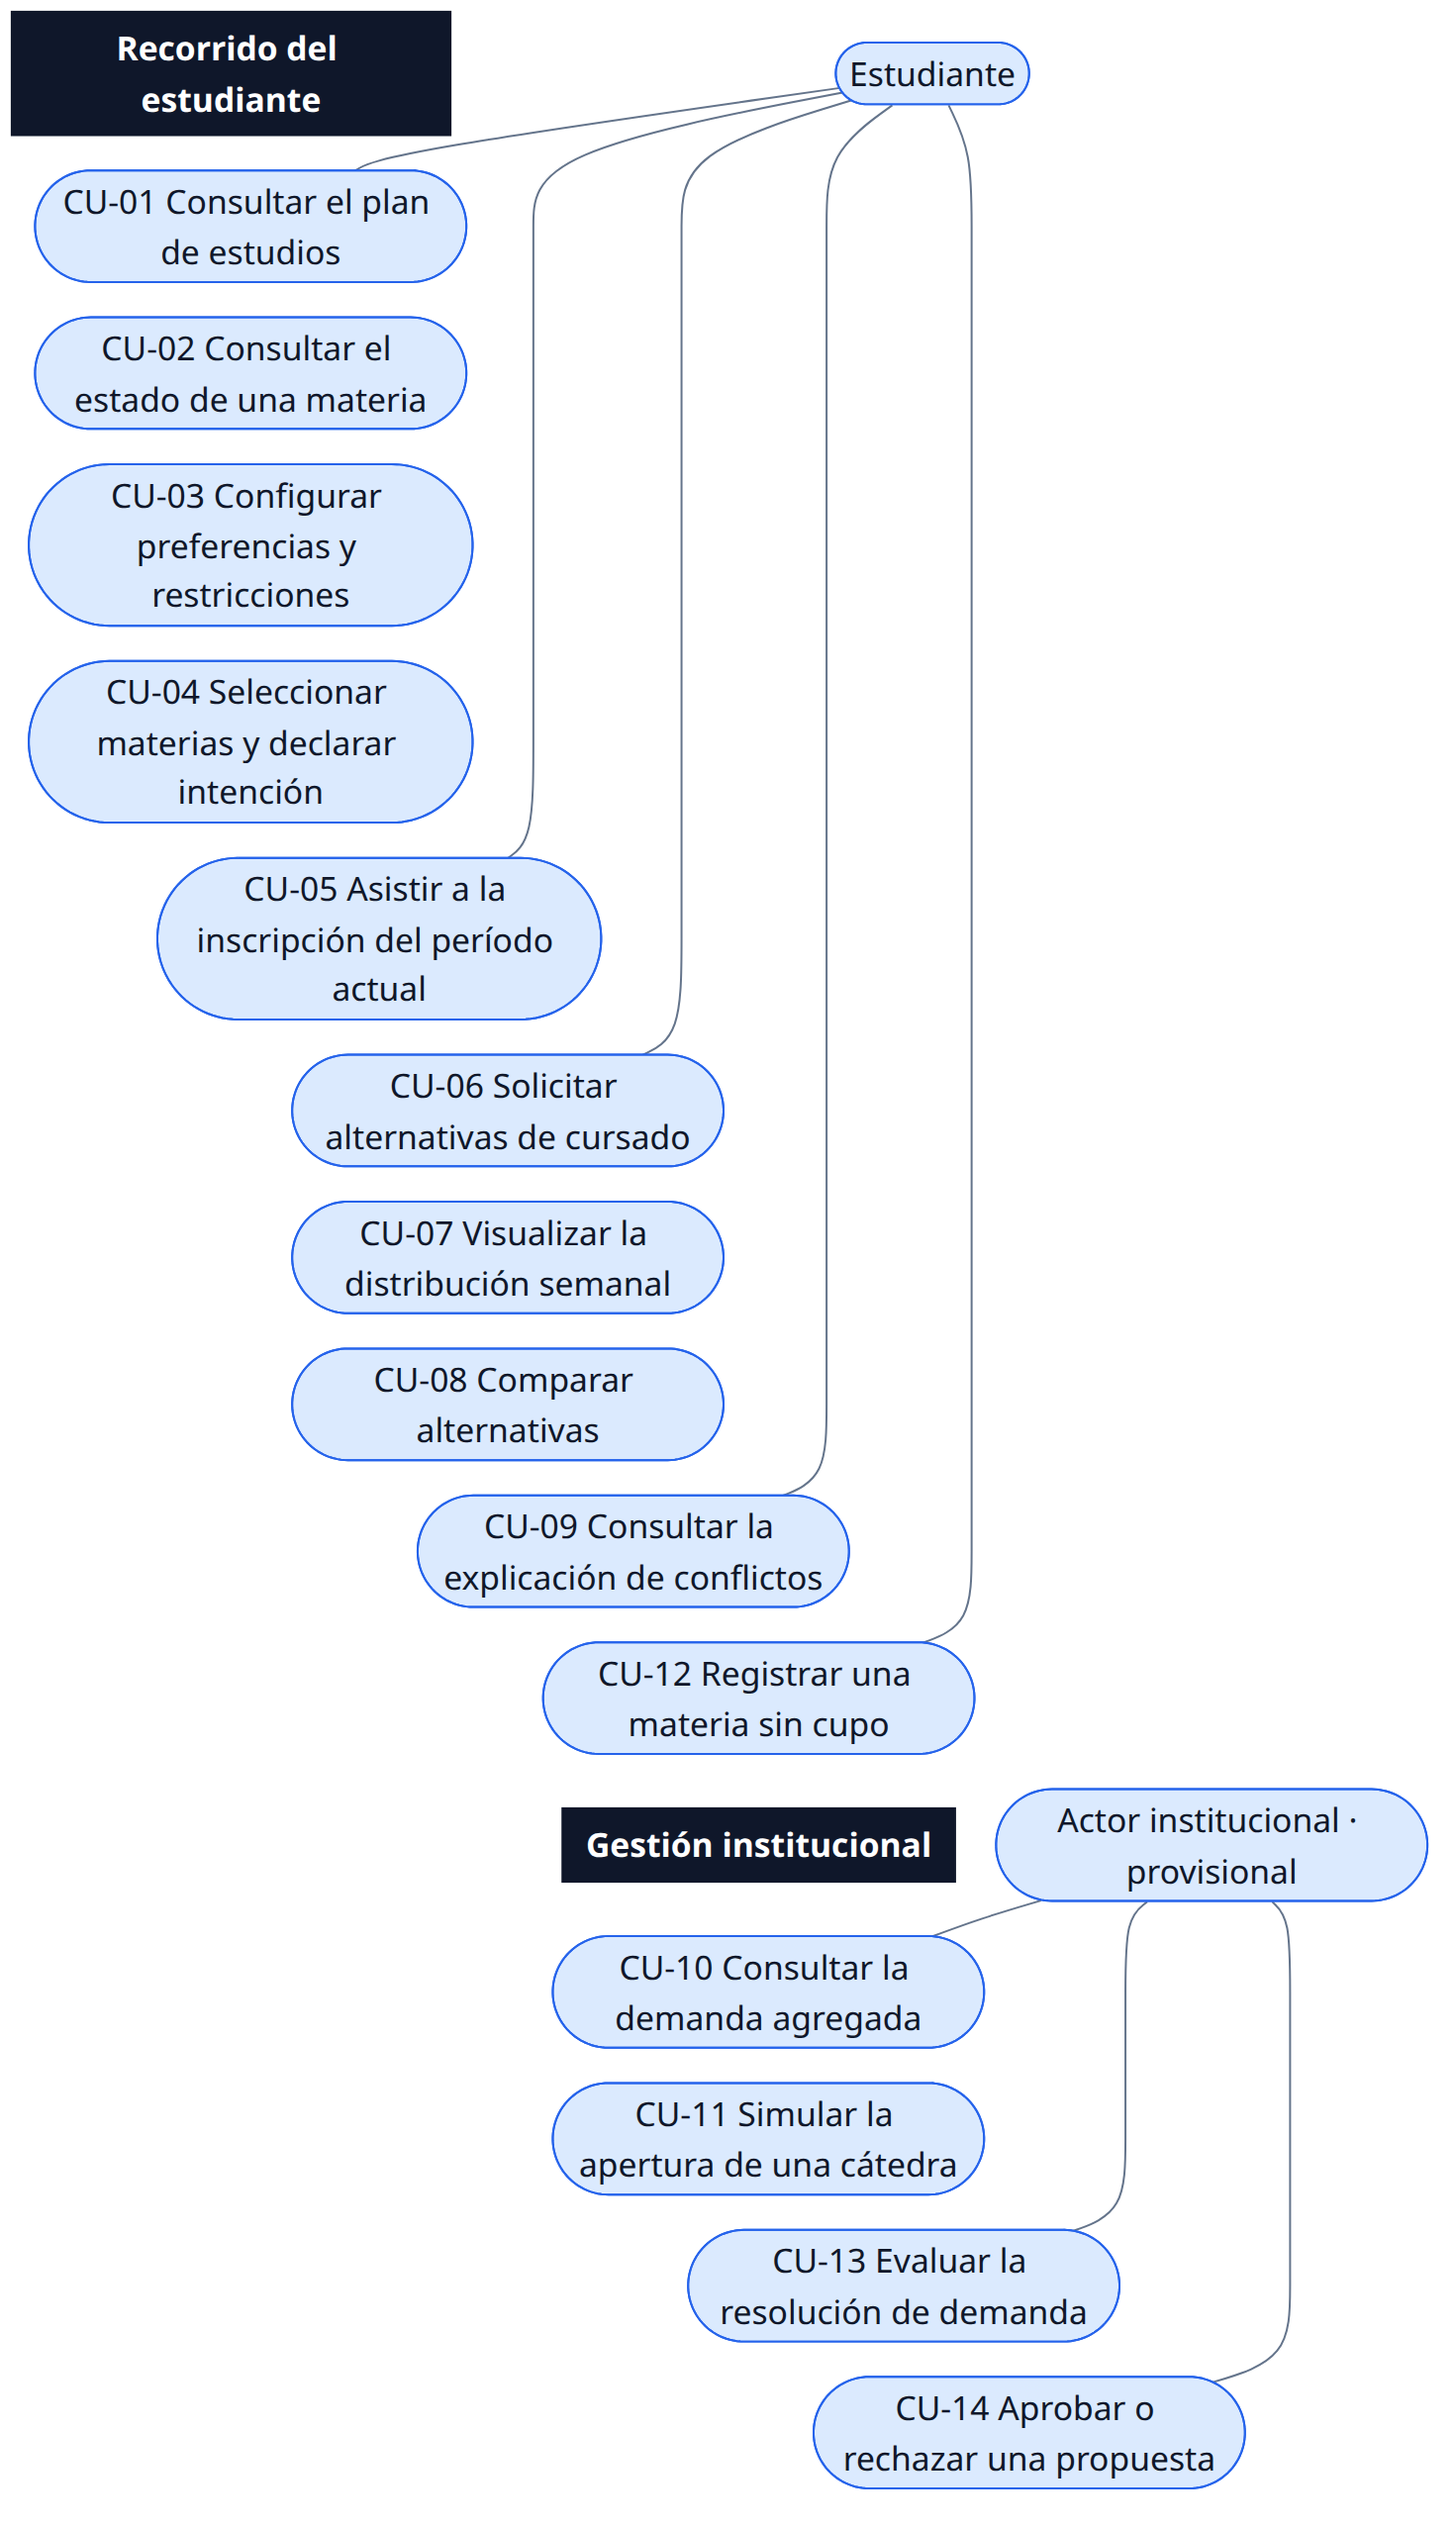
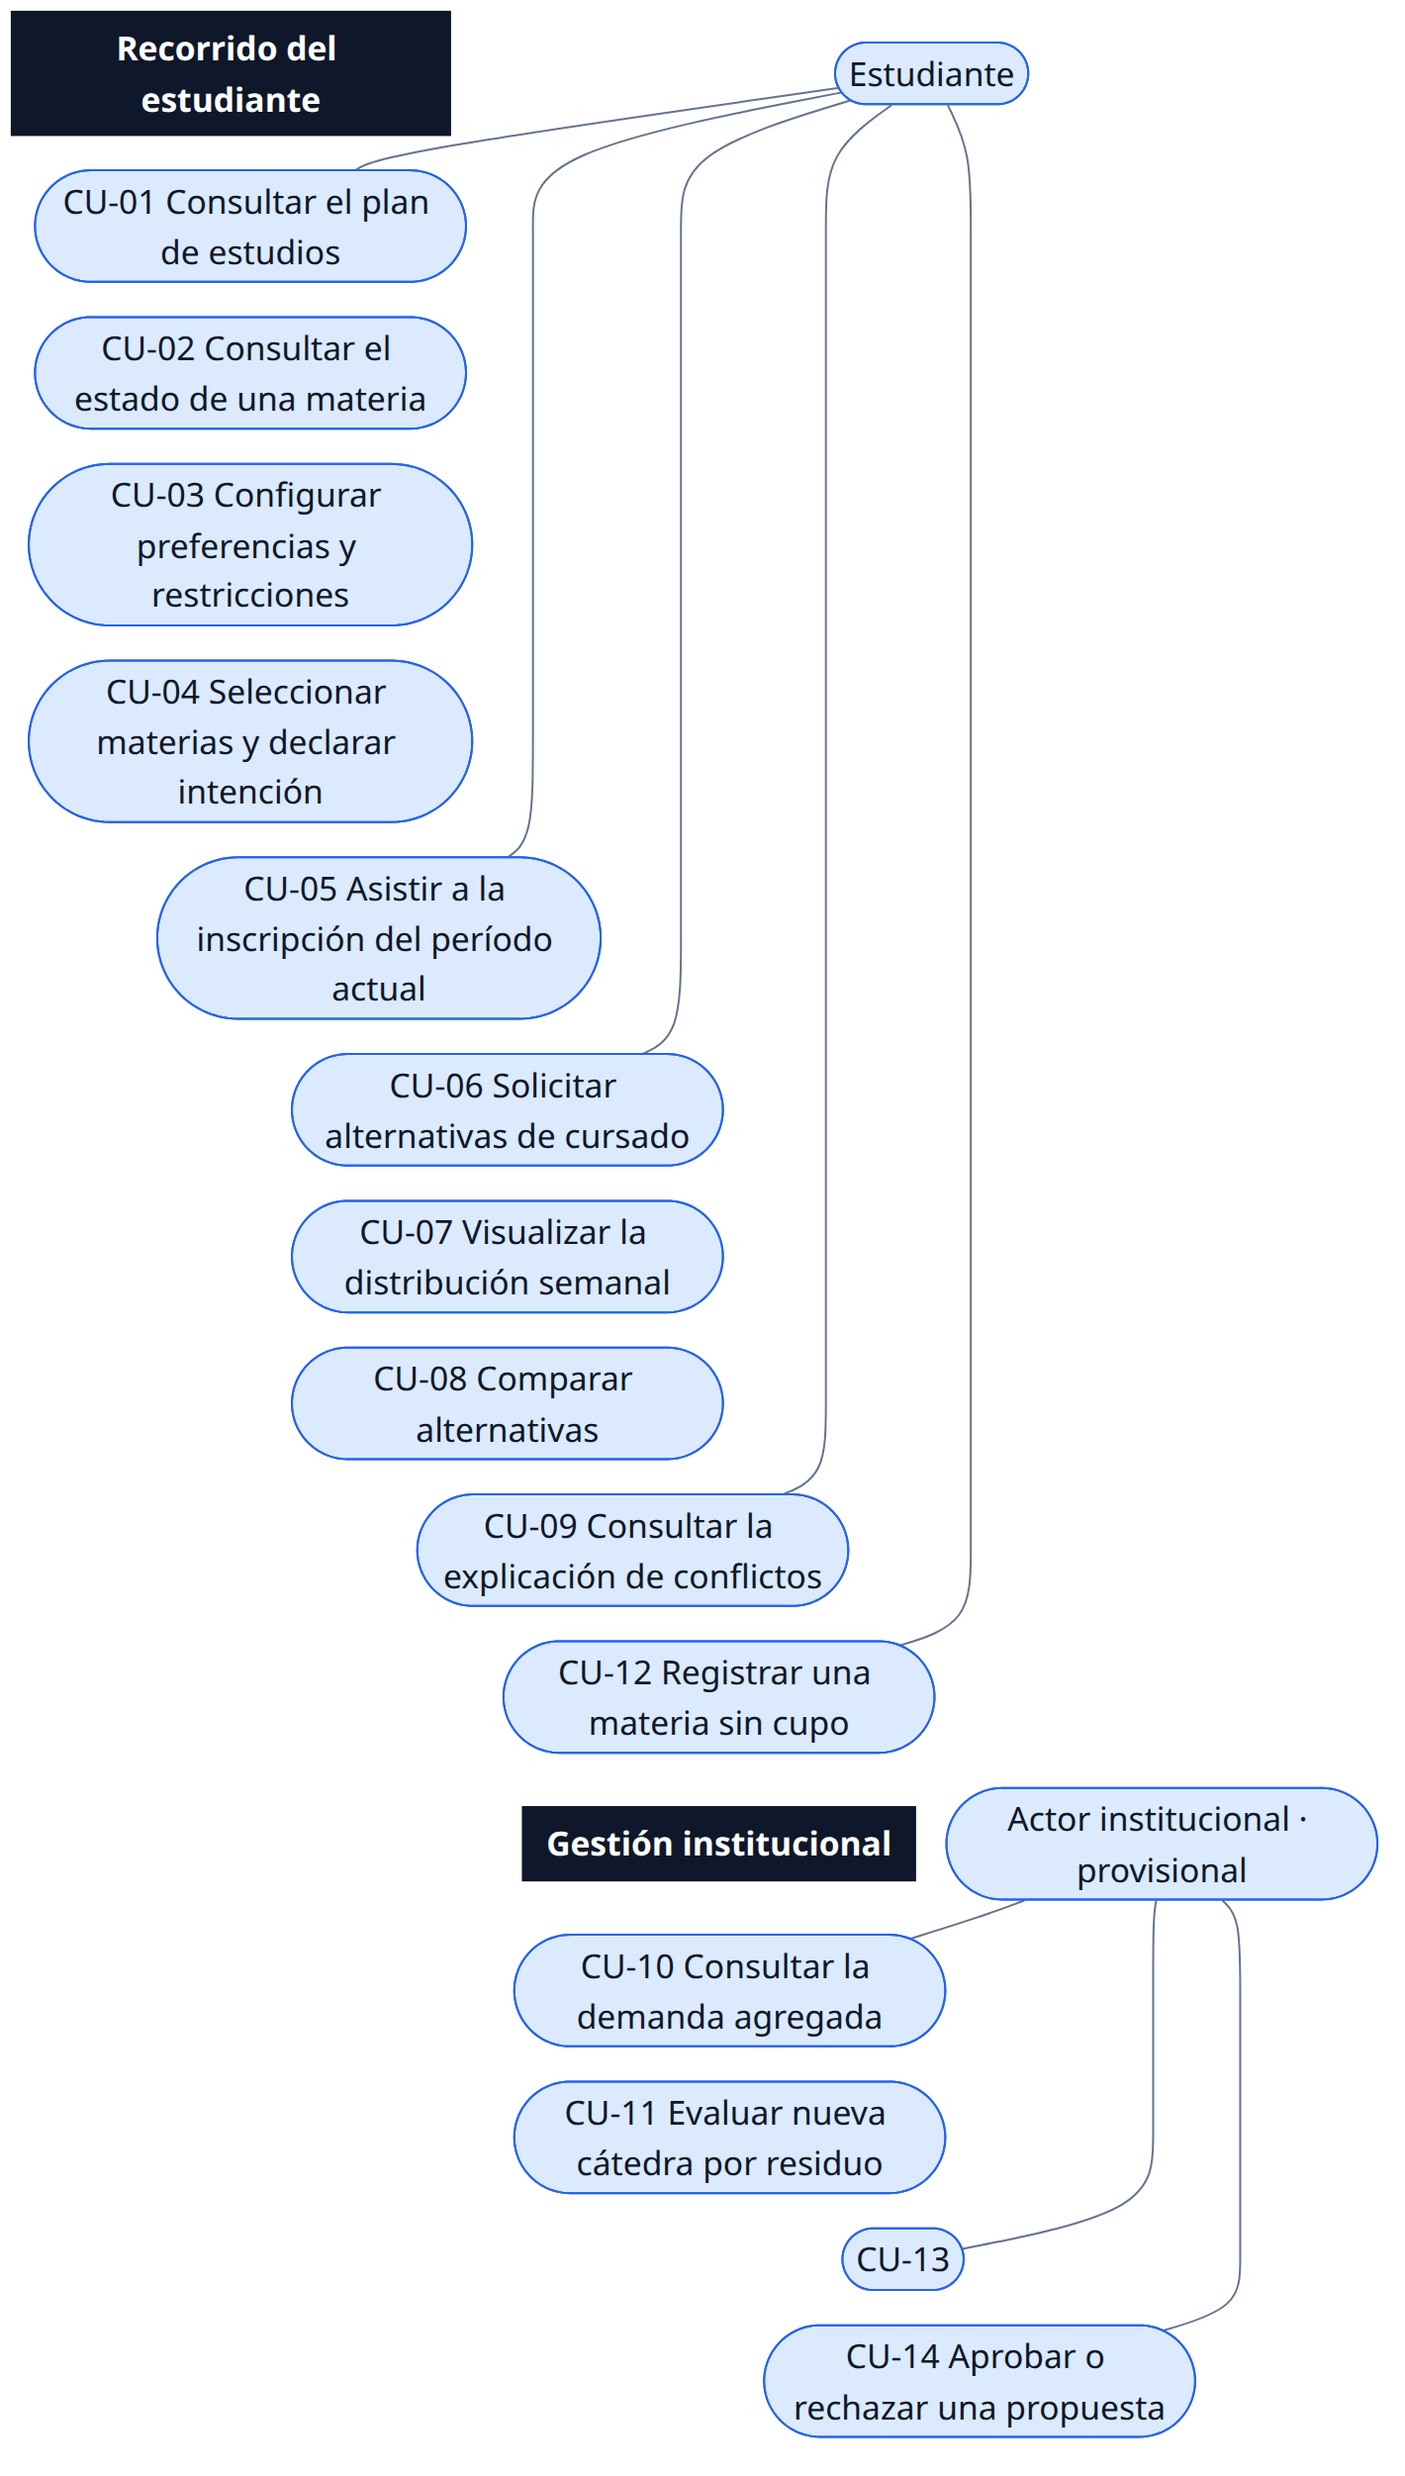
docs(thesis): clarify CU-13 in use-case figure

Changed region(s): [[0.0, 0.0, 0.9915, 0.9976], [0.3718, 0.0624, 0.4028, 0.0935], [0.0, 0.2806, 0.031, 0.3118]]

diff --git a/documento/figuras/README.md b/documento/figuras/README.md
@@ -90,14 +90,14 @@ versionado es el registro de lo que efectivamente está insertado en el document
 | Archivo | Sección | Relación | Inserción | Texto |
 | --- | --- | --- | --- | --- |
 | `figura-1-arquitectura` | 6.1.3 | 0,74 | 468 × 636 pt | 16,7 pt |
-| `figura-2-casos-de-uso` | 7.2.1 | 0,58 | 373 × 648 pt | 8,6 pt |
+| `figura-2-casos-de-uso` | 7.2.1 | 0,57 | 368 × 648 pt | 8,8 pt |
 | `figura-3-entidades-academicas` | 7.2.2 | 1,72 | 468 × 272 pt | 8,3 pt |
 | `figura-4-entidades-planificacion` | 7.2.2 | 1,59 | 468 × 294 pt | 9,4 pt |
 | `figura-5-colaboracion` | 7.2.4 | 0,22 | 140 × 648 pt | 10,1 pt |
 
-Las figuras 2 y 3 quedan en el límite inferior. La 2 conserva además una
-indentación despareja de algunos casos, heredada de los enlaces invisibles que
-fijan el orden; es cosmética y no afecta la lectura.
+La figura 3 queda en el límite inferior. La 2 conserva además una indentación
+despareja de algunos casos, heredada de los enlaces invisibles que fijan el
+orden; es cosmética y no afecta la lectura.
 
 ## Estado en el documento
 
@@ -108,7 +108,7 @@ los números 4 a 7 sin que existieran las figuras 1 a 3.
 | Figura en la tesis | Archivo | Sección | Inserción |
 | --- | --- | --- | --- |
 | Figura 1 | `figura-1-arquitectura` | 6.1.3 | 468 × 636 pt |
-| Figura 2 | `figura-2-casos-de-uso` | 7.2.1 | 373 × 648 pt |
+| Figura 2 | `figura-2-casos-de-uso` | 7.2.1 | 368 × 648 pt |
 | Figura 3 | `figura-3-entidades-academicas` | 7.2.2 | 468 × 272 pt |
 | Figura 4 | `figura-4-entidades-planificacion` | 7.2.2 | 468 × 294 pt |
 | Figura 5 | `figura-5-colaboracion` | 7.2.4 | 140 × 646 pt |

diff --git a/odd/tasks/apply-global-optimization-thesis.md b/odd/tasks/apply-global-optimization-thesis.md
@@ -21,7 +21,7 @@ Apply the approved global-classroom-optimization proposal to `documento/tesis.md
 
 - [x] **T1 — Apply the approved manuscript alignment.** Updated scope, limits, functional/technical proposal, RF-23–RF-25, CU-11/CU-13 descriptions, collaboration prose, traceability, test cases, and evaluation metrics. Scoped CP-SAT wording and preserved citations/notes.
 
-- [ ] **T2 — Regenerate the affected use-case figure.** Rename CU-11/CU-13 consistently in the Mermaid source, render Figure 2 using the repository workflow, and update only its figure-status evidence.
+- [x] **T2 — Regenerate the affected use-case figure.** Renamed CU-11 and shortened the Figure 2 CU-13 node to its identifier, with the CU-13 clarification placed immediately below Figure 2 in the manuscript. Rendered only Figure 2 with `mmdc -i figura-2-casos-de-uso.mmd -o figura-2-casos-de-uso.png -w 1600 -b white -p puppeteer-config.json -c mermaid-config.json --scale 2`; `python3 verificar-tamanos.py` reports 1420 × 2502 px, 368 × 648 pt, and 8,8 pt for Figure 2. The checker flags only the documented Figure 3 8,3 pt debt; `git diff --check` passed and no other figure source or PNG changed.
 
 - [ ] **T3 — Verify and close the thesis candidate.** Check manuscript terminology, requirement/use-case/test traceability, numerical evidence, no-timetabling/read-only boundaries, figure references/assets, Markdown integrity, unchanged unrelated figures, and native review; record commits and limitations.
 

diff --git a/documento/tesis.md b/documento/tesis.md
@@ -365,6 +365,7 @@ Declaración sobre el uso de inteligencia artificial generativa. Durante la elab
 ### 7.2.1. Diagrama de casos de uso
 El diagrama distingue al estudiante y a un actor institucional autorizado. Bedelía queda identificada como responsable de registrar en el CRM las solicitudes originadas por falta de cupo. La evaluación y aprobación de cambios de aula o aperturas se atribuyen provisionalmente a un actor institucional, cuya denominación y nivel de autorización deberán confirmarse mediante la elicitación pendiente.
 Figura 2. Casos de uso del sistema.
+CU-13 corresponde a «Evaluar reasignación global de aulas».
 Nota. Elaboración propia.
 ### 7.2.2. Diagrama de clases / Entidad relación
 Las entidades se presentan como un modelo preliminar del dominio, derivado de los requerimientos del capítulo 6 y del alcance definido en 3.3. Además del recorrido del estudiante, se incorporan las entidades necesarias para modelar aulas, disponibilidad y propuestas de resolución de demanda. No se representan inscripciones oficiales ni personal administrativo nominal; el actor institucional se modela mediante un rol provisional hasta completar la elicitación. El cupo de una cátedra se deriva de la capacidad del aula asignada, según lo relevado en 4.4.3, y mientras no exista aula asignada se conserva como capacidad declarada. Esta regla evita que la capacidad del aula y el cupo de la cátedra funcionen como dos fuentes de verdad independientes.
